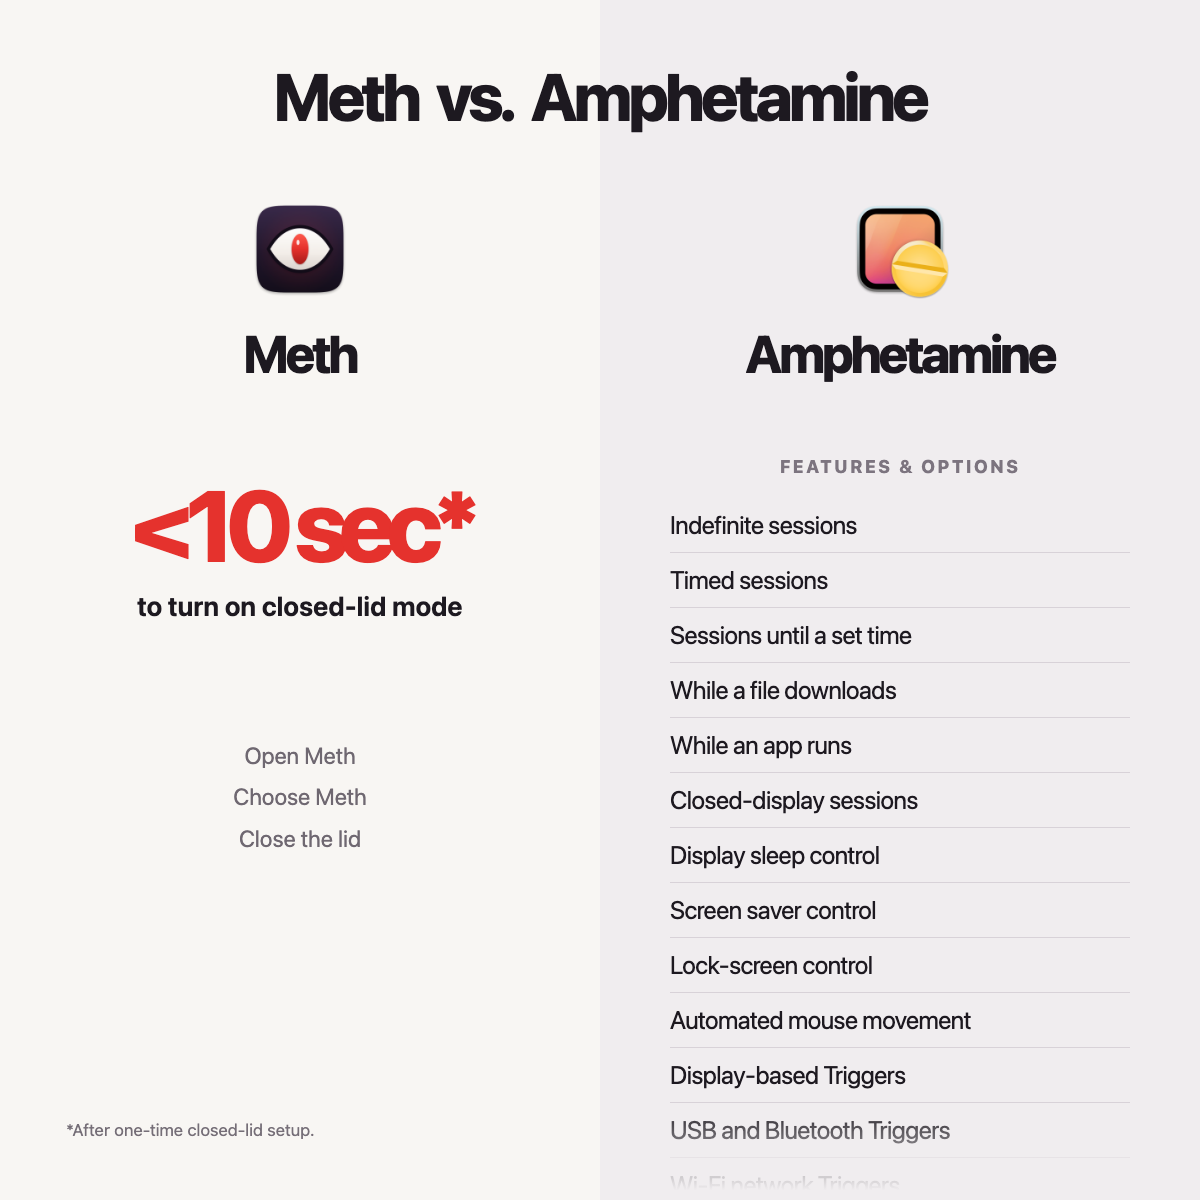
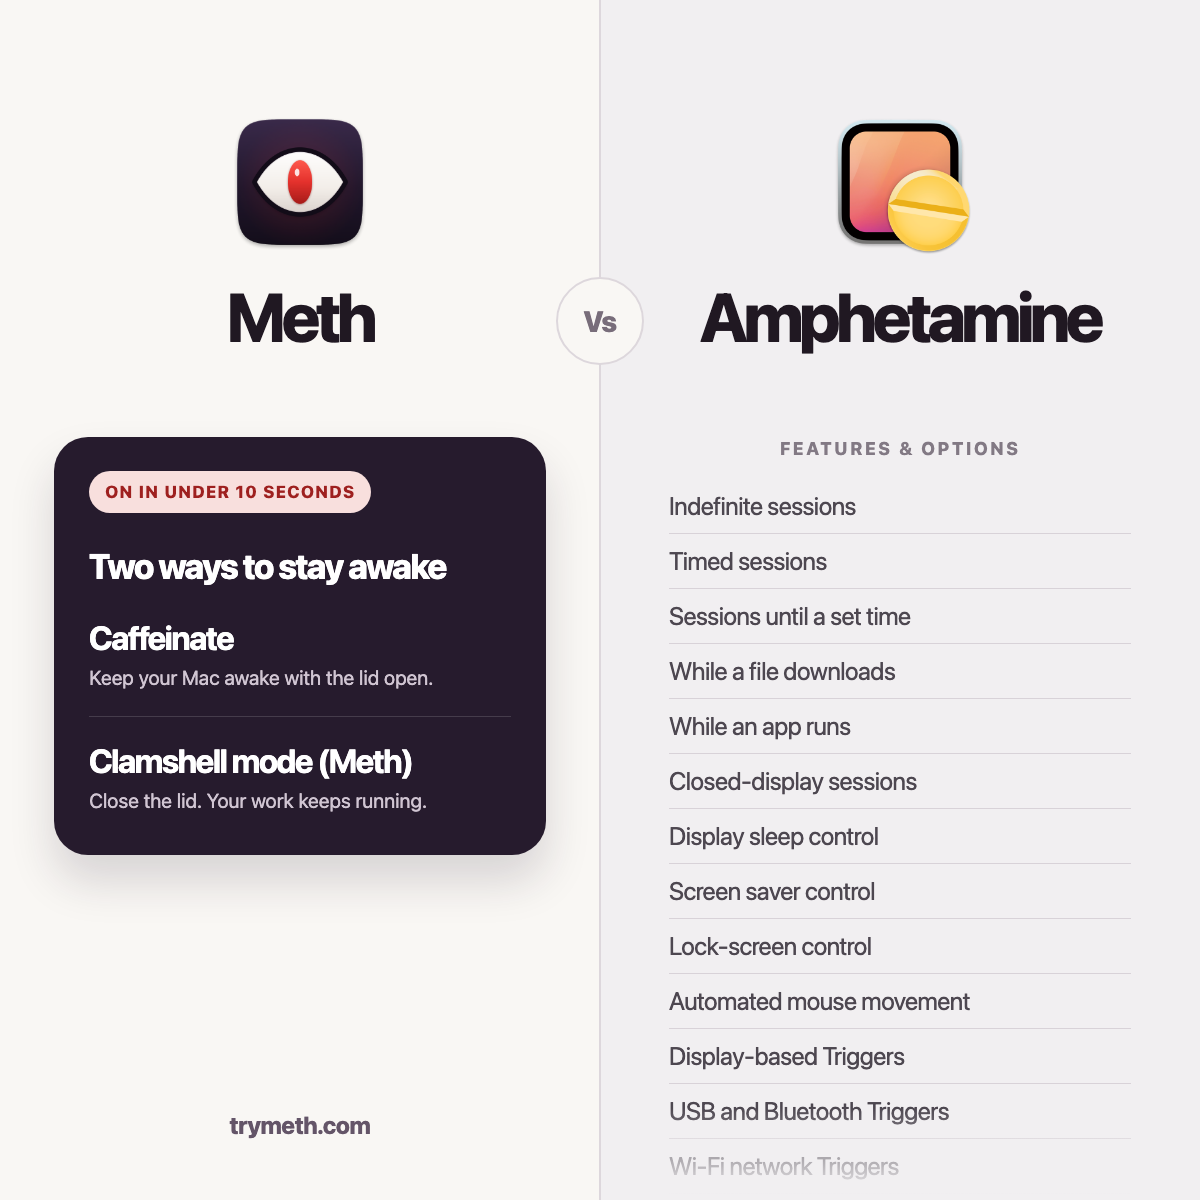
Refine split comparison around Meth modes

diff --git a/concepts/index.html b/concepts/index.html
@@ -16,13 +16,51 @@
 /* 5: poster */
 #five{background:#19131e;color:white}.five-halo{position:absolute;width:900px;height:900px;border-radius:50%;background:radial-gradient(circle,#94282d 0%,#5b212c 35%,transparent 70%);left:290px;top:250px;opacity:.78}.five-title{position:relative;margin-top:110px;max-width:940px}.five-title h1{font-size:105px}.five-title p{font-size:28px;color:#d5c9d5;margin-top:24px}.five-center{position:relative;margin:76px auto 0;width:720px;height:345px}.laptop-top{position:absolute;left:70px;top:82px;width:580px;height:255px;border-radius:26px;background:linear-gradient(145deg,#77717d,#47414c 57%,#25212b);transform:perspective(800px) rotateX(63deg);box-shadow:0 30px 65px #09060b}.laptop-top:before{content:"";position:absolute;left:25px;right:25px;top:20px;bottom:20px;border:2px solid #aca5b233;border-radius:8px}.laptop-base{position:absolute;left:64px;top:262px;width:592px;height:27px;border-radius:4px 4px 45px 45px;background:linear-gradient(#8a848f,#35313b);box-shadow:0 25px 45px #09060b}.laptop-eye{position:absolute;left:324px;top:165px;width:72px;filter:drop-shadow(0 5px 8px #130c18)}.five-compare{display:flex;justify-content:space-between;position:relative;gap:24px;margin-top:13px}.five-box{width:50%;border:1px solid #ffffff35;border-radius:24px;padding:25px 28px;min-height:145px;background:#ffffff0b}.five-box .brand{font-size:25px}.five-box .brand img{width:50px;height:50px}.five-box p{font-size:22px;margin-top:12px;color:#d9ced9}.five-box:first-child{border-color:#e5322d;background:#e5322d1d}.five-cta{position:absolute;right:76px;bottom:48px;color:#fff;font-size:21px;font-weight:750}#five .fine{right:390px;color:#c7bac9;font-size:16px}
 /* 6: simple split comparison */
-#six{background:#f8f6f3;padding:0;color:#1d1920}#six:before{content:"";position:absolute;left:600px;top:0;bottom:0;width:1px;background:#d7d1d5}#six .split-title{position:absolute;top:57px;left:0;right:0;display:flex;align-items:center;justify-content:center;gap:18px;font-size:66px;letter-spacing:-.055em;font-weight:780;z-index:2}#six .split-side{position:absolute;top:0;width:600px;height:1200px;text-align:center;padding-top:195px}#six .split-left{left:0}#six .split-right{left:600px;background:#f0edef}#six .split-logo{width:108px;height:108px;object-fit:contain}#six .split-name{font-size:52px;font-weight:760;letter-spacing:-.06em;margin-top:17px}#six .fast{font-size:100px;letter-spacing:-.09em;color:#e5322d;font-weight:800;margin-top:90px;line-height:1}#six .fast-detail{font-size:27px;line-height:1.18;font-weight:650;margin:17px auto 0;max-width:390px}#six .simple-path{font-size:23px;color:#6f6871;margin:112px auto 0;max-width:360px;line-height:1.8}#six .split-note{position:absolute;left:66px;bottom:60px;color:#756e77;font-size:17px}#six .feature-title{font-size:18px;letter-spacing:.14em;text-transform:uppercase;color:#7c747f;font-weight:770;margin-top:72px}#six .features{list-style:none;margin:21px 0 0;padding:0 70px;text-align:left}#six .features li{font-size:25px;line-height:1.12;letter-spacing:-.025em;padding:13px 0;border-bottom:1px solid #d8d2d8}#six .split-right:after{content:"";position:absolute;left:0;right:0;bottom:0;height:95px;background:linear-gradient(transparent,#f0edef 90%)}
+#six{background:#f9f7f4;padding:0;color:#201822}
+#six:before{content:"";position:absolute;left:599px;top:0;bottom:0;width:2px;background:#ddd7dc;z-index:1}
+#six .split-side{position:absolute;top:0;width:600px;height:1200px;text-align:center;padding-top:104px;overflow:hidden}
+#six .split-left{left:0;background:#f9f7f4}
+#six .split-right{left:600px;background:#f1eff1}
+#six .split-logo{width:156px;height:156px;object-fit:contain}
+#six .split-name{font-size:68px;font-weight:780;letter-spacing:-.064em;margin-top:18px;line-height:1.05}
+#six .vs{position:absolute;left:50%;top:321px;transform:translate(-50%,-50%);z-index:3;background:#f9f7f4;border:2px solid #ddd7dc;color:#786d7a;border-radius:999px;width:88px;height:88px;display:grid;place-items:center;font-size:29px;font-weight:800;letter-spacing:-.03em}
+#six .meth-panel{margin:85px 54px 0;padding:34px 35px 38px;border-radius:34px;background:#261b2d;color:#fff;text-align:left;box-shadow:0 26px 45px #261b2d28}
+#six .speed-chip{display:inline-block;padding:11px 16px;border-radius:999px;background:#f8dfdd;color:#9e201f;font-size:17px;letter-spacing:.075em;font-weight:800}
+#six .panel-title{font-size:35px;font-weight:760;letter-spacing:-.05em;margin:34px 0 8px;line-height:1.1}
+#six .meth-option{padding:26px 0;border-bottom:1px solid #ffffff25}
+#six .meth-option:last-child{border:0;padding-bottom:4px}
+#six .meth-option h2{font-size:33px;letter-spacing:-.05em;line-height:1.1}
+#six .meth-option p{font-size:20px;color:#d0c5d2;margin-top:9px;line-height:1.25}
+#six .meth-url{position:absolute;bottom:61px;left:0;right:0;font-size:24px;font-weight:760;letter-spacing:-.02em;color:#645568}
+#six .feature-title{font-size:18px;letter-spacing:.14em;text-transform:uppercase;color:#827984;font-weight:770;margin-top:86px}
+#six .features{list-style:none;margin:20px 0 0;padding:0 69px;text-align:left}
+#six .features li{font-size:25px;line-height:1.12;letter-spacing:-.025em;padding:13px 0;border-bottom:1px solid #d8d2d8;color:#4d4750}
+#six .split-right:after{content:"";position:absolute;left:0;right:0;bottom:0;height:92px;background:linear-gradient(transparent,#f1eff1 95%)}
 </style>
 <article id="one"><div class="top"><div class="brand"><img src="assets/meth-icon.png">Meth</div><div class="versus">vs</div><div class="brand"><img src="assets/amphetamine-icon.png">Amphetamine</div></div><div class="one-head"><h1>Keep working.<br>Skip the setup maze.</h1><p>For closed-lid work, Meth gets you to the switch fast. Amphetamine gives you a wider set of controls.</p></div><div class="race"><div class="race-card left shadow"><div class="brand"><img src="assets/meth-icon.png">Meth</div><div class="big">&lt;10s*</div><div class="support">Turn on closed-lid mode after one-time setup.</div></div><div class="race-card right shadow"><div class="brand"><img src="assets/amphetamine-icon.png">Amphetamine</div><div class="big">More<br>options</div><div class="support">Timed sessions, Triggers, display and system controls.</div></div></div><div class="one-foot"><span>*Meth time claim is after one-time closed-lid setup.</span><span class="url">trymeth.com</span></div></article>
 <article id="two"><div class="two-glow"></div><div class="top" style="position:relative"><div class="brand"><img src="assets/meth-icon.png">Meth</div><div class="versus">vs</div><div class="brand"><img src="assets/amphetamine-icon.png">Amphetamine</div></div><div class="two-title"><h1>Three modes.<br>One clear choice.</h1><p>When your goal is keeping a closed Mac awake, Meth puts that choice in front of you.</p></div><div class="menus"><div class="menu"><div class="menu-head"><img src="assets/meth-icon.png">Meth menu</div><div class="menu-row dim">Off</div><div class="menu-row">Caffeine</div><div class="menu-row sel">✓ &nbsp; Meth</div></div><div class="menu"><div class="menu-head"><img src="assets/amphetamine-icon.png">Amphetamine capabilities</div><div class="menu-row">Timed or indefinite sessions</div><div class="menu-row">App and download sessions</div><div class="menu-row">Automatic Triggers</div><div class="menu-row">Display and sleep controls</div><div class="menu-row">Custom icons and hot keys</div></div></div><div class="two-chip">&lt;10 seconds after setup*</div><div class="fine">*Meth claim applies after its one-time closed-lid setup. Amphetamine capabilities summarized from its App Store listing.</div></article>
 <article id="three"><div class="top"><div class="brand"><img src="assets/meth-icon.png">Meth</div><span class="kicker">Closed-lid mode</span></div><div class="three-top"><h1>A short path<br>to staying on.</h1><p>Meth gets your Mac ready to work with the lid shut in under 10 seconds after setup.*</p></div><div class="line"></div><div class="steps"><div class="step"><div class="dot">1</div><h2>Open Meth</h2><p>Look for the eye in the menu bar.</p></div><div class="step"><div class="dot">2</div><h2>Choose Meth</h2><p>Pick closed-lid mode.</p></div><div class="step"><div class="dot">✓</div><h2>Close the lid</h2><p>Your work keeps running.</p></div></div><div class="three-lower"><div class="three-amp"><img src="assets/amphetamine-icon.png">Amphetamine</div><span>Offers simple manual sessions too, plus more ways to customize and automate them.</span></div><div class="fine">*After one-time closed-lid setup. Meth timing is a product claim, not a measured comparison.</div></article>
 <article id="four"><div class="top"><span class="kicker">Product comparison</span><span class="url">trymeth.com</span></div><div class="four-title"><h1>Simple or configurable?</h1><p>Two useful Mac utilities, built around different priorities.</p></div><div class="matrix"><div class="matrix-row head"><div></div><div class="brand"><img src="assets/meth-icon.png">Meth</div><div class="brand"><img src="assets/amphetamine-icon.png">Amphetamine</div></div><div class="matrix-row"><div class="label">Best fit</div><div class="cell methcol">Fast closed-lid mode</div><div class="cell ampcol">Detailed sleep control</div></div><div class="matrix-row"><div class="label">Main path</div><div class="cell">Open menu → choose Meth</div><div class="cell">Start a session from the menu</div></div><div class="matrix-row"><div class="label">Options</div><div class="cell">Off, Caffeine, Meth</div><div class="cell">Timers, Triggers, custom behavior</div></div><div class="matrix-row"><div class="label">Speed claim</div><div class="cell methcol"><strong>&lt;10 seconds*</strong></div><div class="cell ampcol">No measured time shown</div></div></div><div class="four-bottom"><span>Want the shortest path to closed-lid work?</span><span class="pill">Try Meth</span></div><div class="fine">*After Meth’s one-time closed-lid setup. Comparison reflects published product capabilities; no timed benchmark of Amphetamine.</div></article>
 <article id="five"><div class="five-halo"></div><div class="top" style="position:relative"><div class="brand"><img src="assets/meth-icon.png">Meth</div><span class="kicker">Meth vs Amphetamine</span></div><div class="five-title"><h1>Shut the lid.<br>Keep going.</h1><p>Meth’s focused closed-lid switch is ready in under 10 seconds after one-time setup.*</p></div><div class="five-center"><div class="laptop-top"></div><div class="laptop-base"></div><img class="laptop-eye" src="assets/meth-icon.png"></div><div class="five-compare"><div class="five-box"><div class="brand"><img src="assets/meth-icon.png">Meth</div><p>A direct switch for closed-lid work.</p></div><div class="five-box"><div class="brand"><img src="assets/amphetamine-icon.png">Amphetamine</div><p>Manual sessions with extensive customization.</p></div></div><div class="fine">*Meth time claim applies after one-time closed-lid setup. No timed Amphetamine benchmark.</div><div class="five-cta">trymeth.com →</div></article>
-<article id="six"><div class="split-side split-left"><img class="split-logo" src="assets/meth-icon.png" alt="Meth icon"><div class="split-name">Meth</div><div class="fast">&lt;10 sec*</div><div class="fast-detail">to turn on closed-lid mode</div><div class="simple-path">Open Meth<br>Choose Meth<br>Close the lid</div><div class="split-note">*After one-time closed-lid setup.</div></div><div class="split-side split-right"><img class="split-logo" src="assets/amphetamine-icon.png" alt="Amphetamine icon"><div class="split-name">Amphetamine</div><div class="feature-title">Features &amp; options</div><ul class="features"><li>Indefinite sessions</li><li>Timed sessions</li><li>Sessions until a set time</li><li>While a file downloads</li><li>While an app runs</li><li>Closed-display sessions</li><li>Display sleep control</li><li>Screen saver control</li><li>Lock-screen control</li><li>Automated mouse movement</li><li>Display-based Triggers</li><li>USB and Bluetooth Triggers</li><li>Wi-Fi network Triggers</li><li>IP address Triggers</li><li>Battery and power Triggers</li><li>VPN-based Triggers</li><li>Audio output Triggers</li><li>Mounted-drive Triggers</li><li>CPU-use Triggers</li><li>Idle-time Triggers</li><li>AppleScript support</li><li>Hot keys</li><li>Custom menu icons</li></ul></div><div class="split-title"><span>Meth</span><span>vs.</span><span>Amphetamine</span></div></article>
+<article id="six">
+  <div class="split-side split-left">
+    <img class="split-logo" src="assets/meth-icon.png" alt="Meth icon">
+    <div class="split-name">Meth</div>
+    <div class="meth-panel">
+      <div class="speed-chip">ON IN UNDER 10 SECONDS</div>
+      <div class="panel-title">Two ways to stay awake</div>
+      <div class="meth-option"><h2>Caffeinate</h2><p>Keep your Mac awake with the lid open.</p></div>
+      <div class="meth-option"><h2>Clamshell mode (Meth)</h2><p>Close the lid. Your work keeps running.</p></div>
+    </div>
+    <div class="meth-url">trymeth.com</div>
+  </div>
+  <div class="split-side split-right">
+    <img class="split-logo" src="assets/amphetamine-icon.png" alt="Amphetamine icon">
+    <div class="split-name">Amphetamine</div>
+    <div class="feature-title">Features &amp; options</div>
+    <ul class="features"><li>Indefinite sessions</li><li>Timed sessions</li><li>Sessions until a set time</li><li>While a file downloads</li><li>While an app runs</li><li>Closed-display sessions</li><li>Display sleep control</li><li>Screen saver control</li><li>Lock-screen control</li><li>Automated mouse movement</li><li>Display-based Triggers</li><li>USB and Bluetooth Triggers</li><li>Wi-Fi network Triggers</li><li>IP address Triggers</li><li>Battery and power Triggers</li><li>VPN-based Triggers</li><li>Audio output Triggers</li><li>Mounted-drive Triggers</li><li>CPU-use Triggers</li><li>Idle-time Triggers</li><li>AppleScript support</li><li>Hot keys</li><li>Custom menu icons</li></ul>
+  </div>
+  <div class="vs">Vs</div>
+</article>
 <script>const n=new URLSearchParams(location.search).get('n')||'6';document.body.classList.add('only');document.querySelectorAll('article').forEach((e,i)=>e.classList.toggle('show',i===Number(n)-1))</script>
 </html>

diff --git a/concepts/README.md b/concepts/README.md
@@ -7,7 +7,7 @@ Six square, 1200 × 1200 comparison images:
 3. `concept-3.png`: three-step Meth path, with Amphetamine's customization acknowledged.
 4. `concept-4.png`: editorial comparison table for readers evaluating both apps.
 5. `concept-5.png`: closed-laptop product poster with a compact comparison.
-6. `comparison-simple.png`: revised center split with both logos above the names, Meth's short path, and Amphetamine's feature list running off the bottom edge. This is the current recommended direction.
+6. `comparison-simple.png`: revised center split with larger logos above the names, “Vs” between them, Meth's two modes, and Amphetamine's feature list running off the bottom edge. This is the current recommended direction.
 
 `index.html` is the editable source. It opens the revised split by default. Add `?n=1` through `?n=5` to see the earlier concepts.
 
